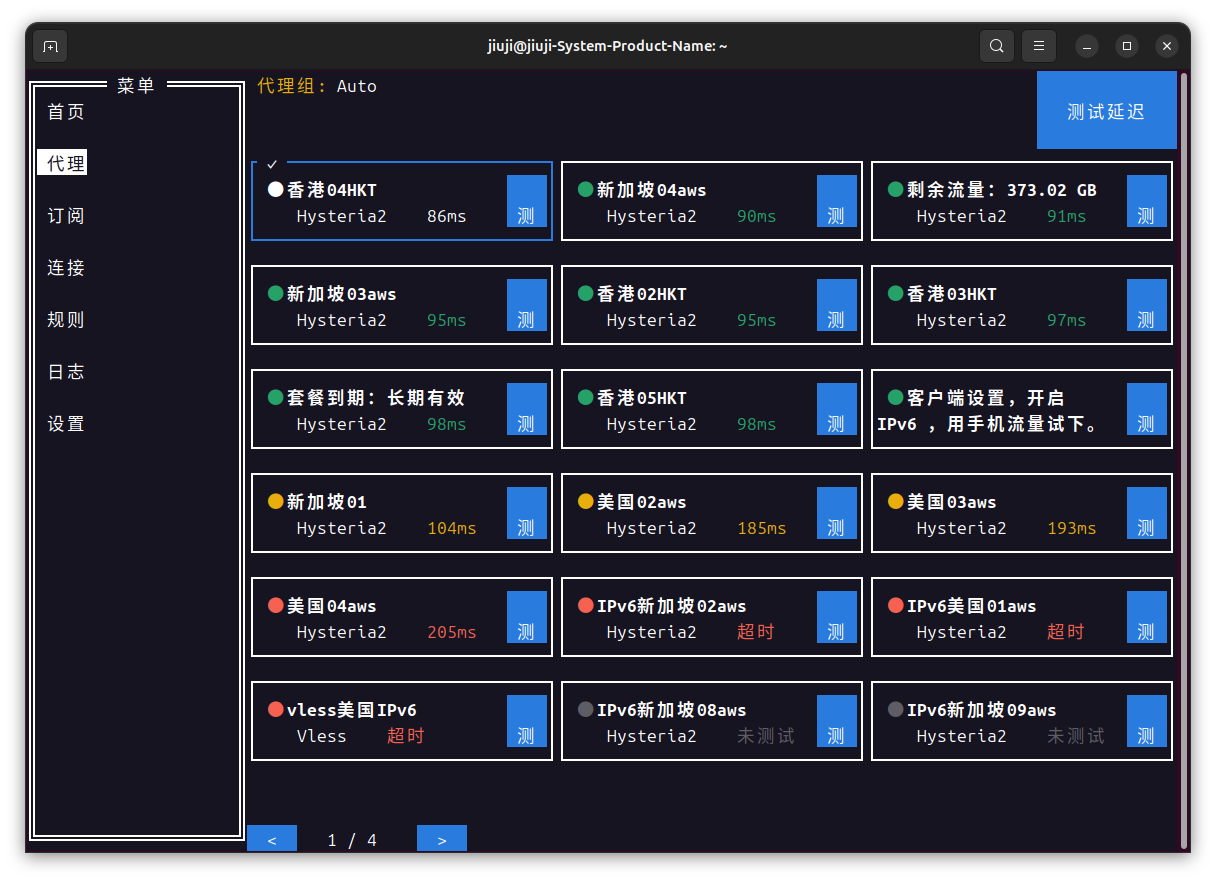
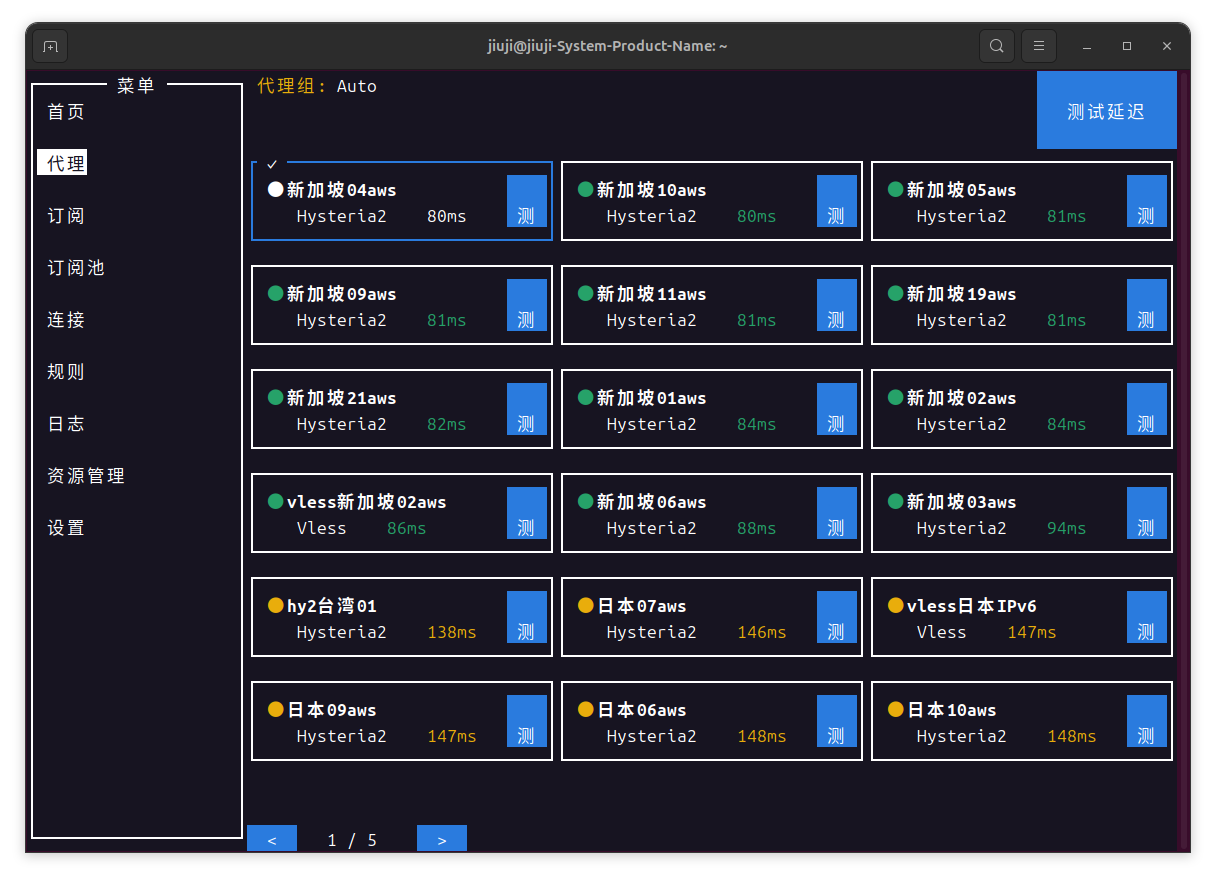
docs: 更新 README 文档，增强功能描述并添加资源管理截图

diff --git a/README.md b/README.md
@@ -1,14 +1,17 @@
 # mihomo-tui
 
-mihomo-tui is a terminal UI configuration tool for [mihomo](https://github.com/MetaCubeX/mihomo) (Clash Meta). Built with [rivo/tview](https://github.com/rivo/tview), it is designed for Linux headless server environments and provides an intuitive keyboard-driven interface for managing proxy configurations.
+mihomo-tui is a terminal UI and daemon management tool for [mihomo](https://github.com/MetaCubeX/mihomo) (Clash Meta). Built with [rivo/tview](https://github.com/rivo/tview), it targets headless Linux servers: the TUI communicates with an IPC daemon to manage the mihomo process, subscriptions, rules, kernel versions, and networking safely.
 
 [中文文档](README.zh.md)
 
 ## Features
 
 - **Proxy Management** — Visual node list with latency sorting, multi-select speed testing, and automatic best-node selection
-- **Subscription Management** — Add, remove, and update subscriptions with automatic download and config merging
-- **Rule Management** — View active rules and support custom rule configuration
+- **Subscription Pools & Active Takeover** — Import from URL, local file, pasted content, or stdin; the daemon validates and caches subscriptions, preserves the last working version, and supports offline bootstrap
+- **Highly Available Subscription Pools** — Ordered failover and merge modes with active-source, cache, health, failure-count, and switch-reason visibility
+- **Subscription Usage Metadata** — Parses common `subscription-userinfo` and CDN-prefixed headers, expiry data, and runtime provider metadata
+- **Rule Management** — View active rules; enable, disable, edit, reorder, and restore built-in rules; place custom rules before or after built-ins
+- **Kernel & Resource Management** — Cached Release list with multi-version download, switch, delete, and progress display; configurable GeoIP / GeoSite download URLs
 - **Connection Monitoring** — Real-time active connections, traffic statistics, and connection details
 - **Latency Testing** — Batch node latency tests with visual result sorting
 - **System Proxy** — One-click toggle for system proxy (HTTP/SOCKS5)
@@ -21,9 +24,9 @@ mihomo-tui is a terminal UI configuration tool for [mihomo](https://github.com/M
 
 ## Screenshots
 
-| Proxy Page | Rules Page |
-|:----------:|:----------:|
-| ![Proxy Page](docs/proxy.png) | ![Rules Page](docs/rules.png) |
+| Proxy Page | Rules Page | Resource Management |
+|:----------:|:----------:|:-------------------:|
+| ![Proxy Page](docs/proxy.png) | ![Rules Page](docs/rules.png) | ![Resource Management](docs/mihomo_manager.png) |
 
 ## System Requirements
 